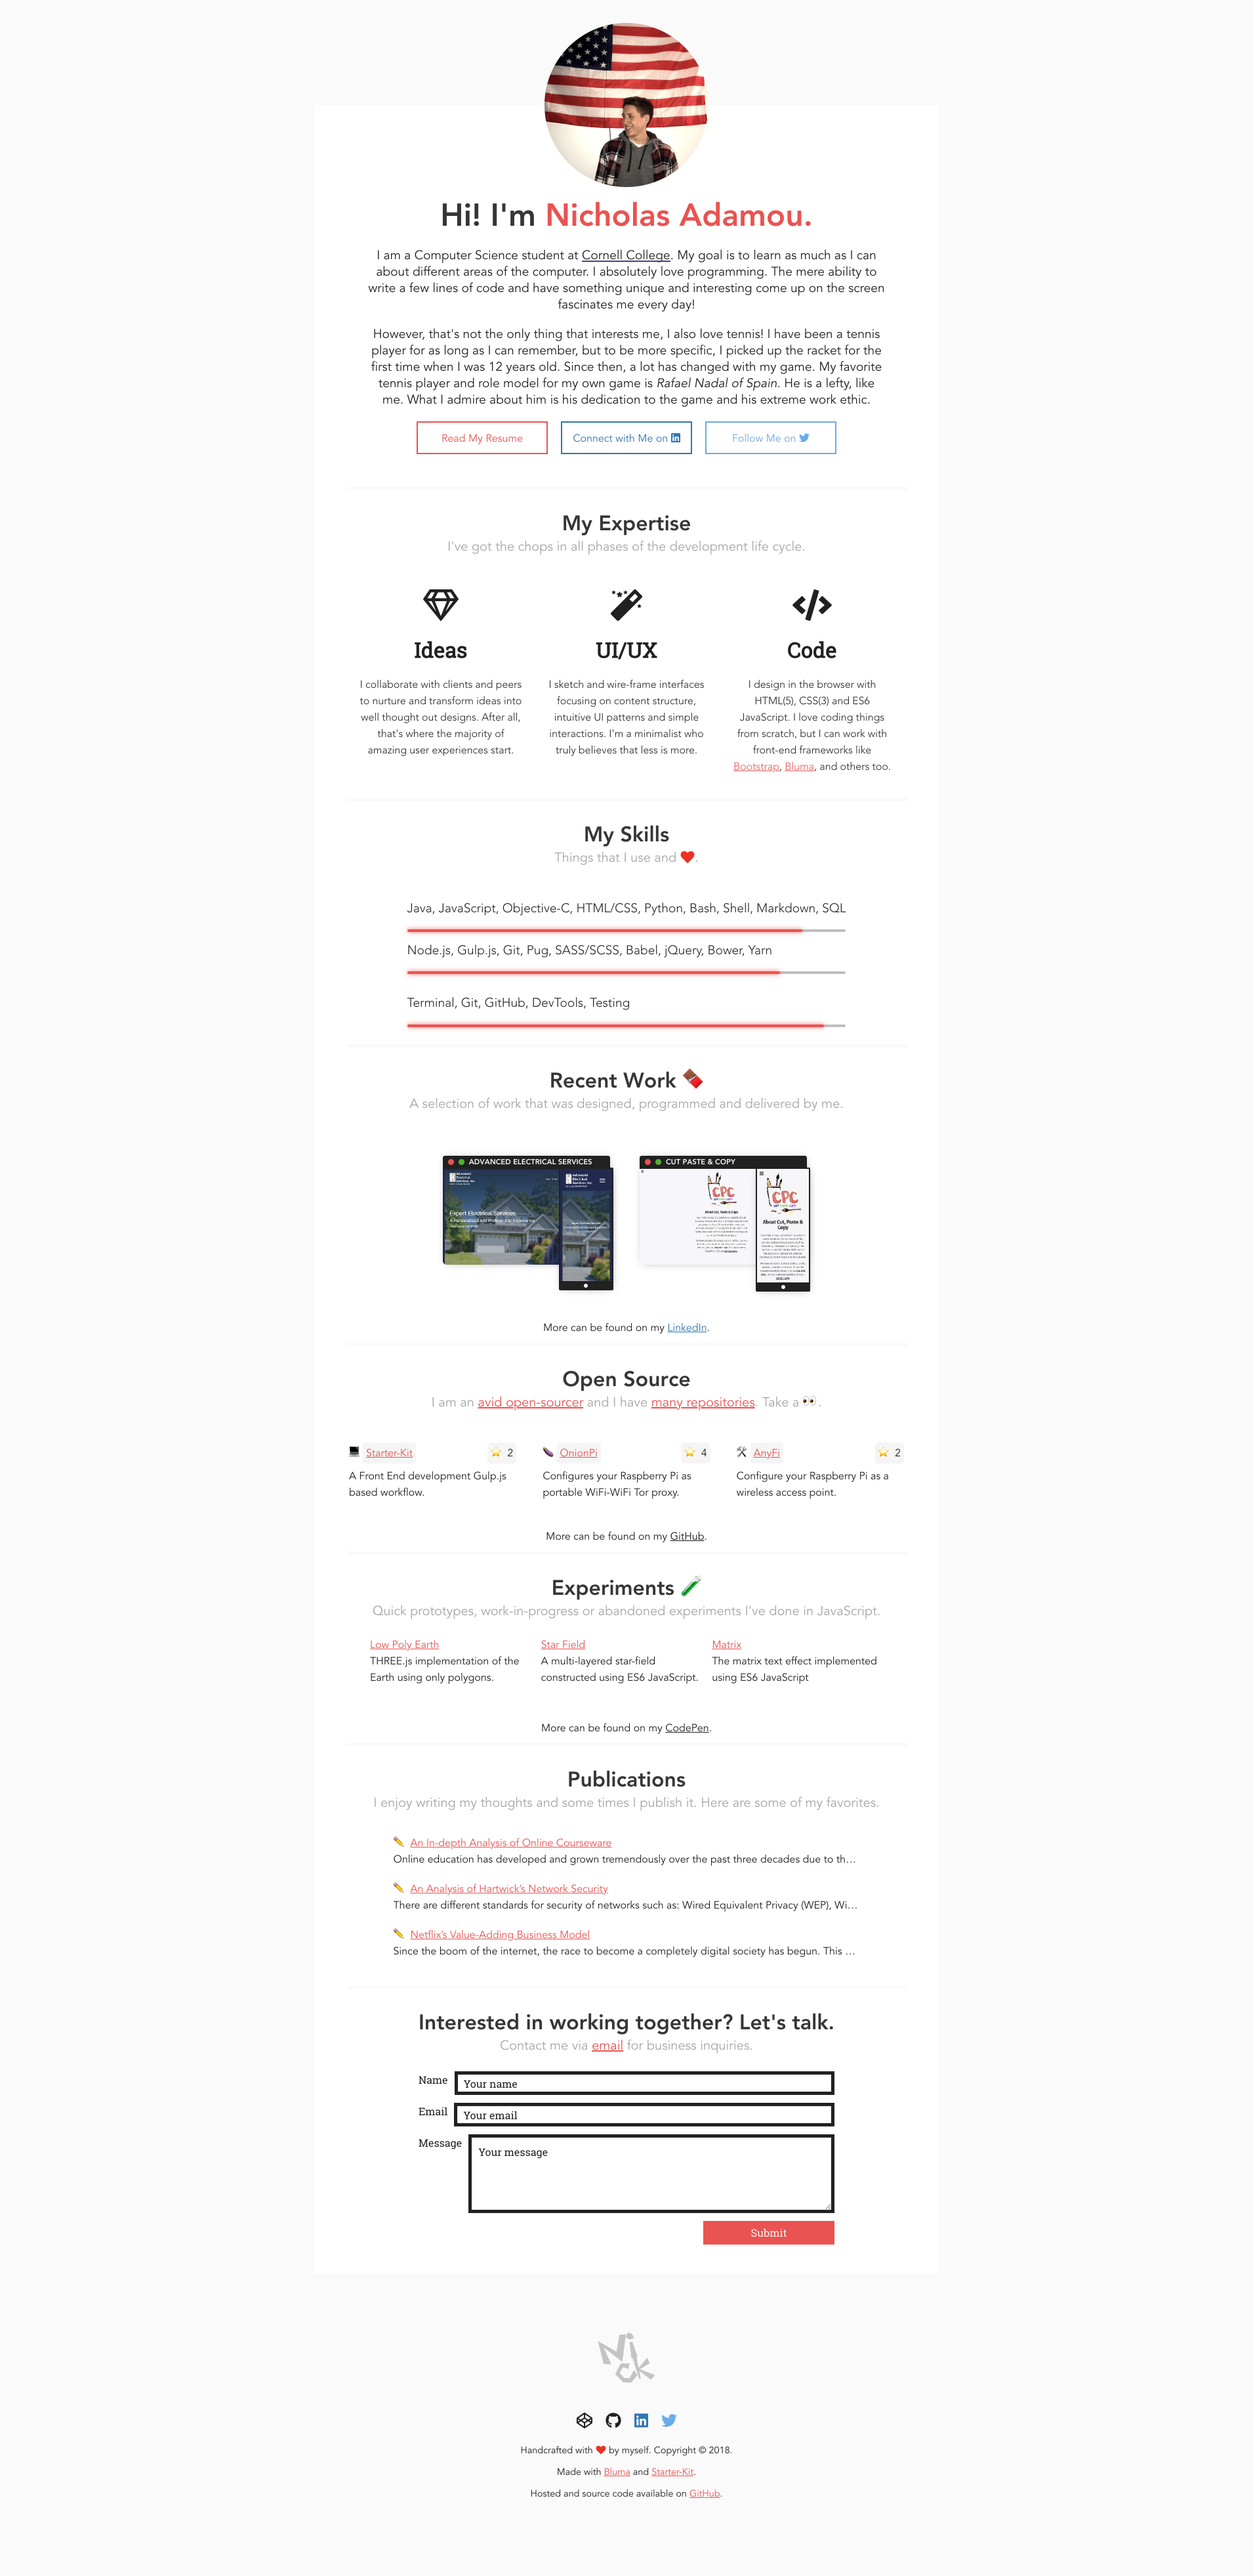
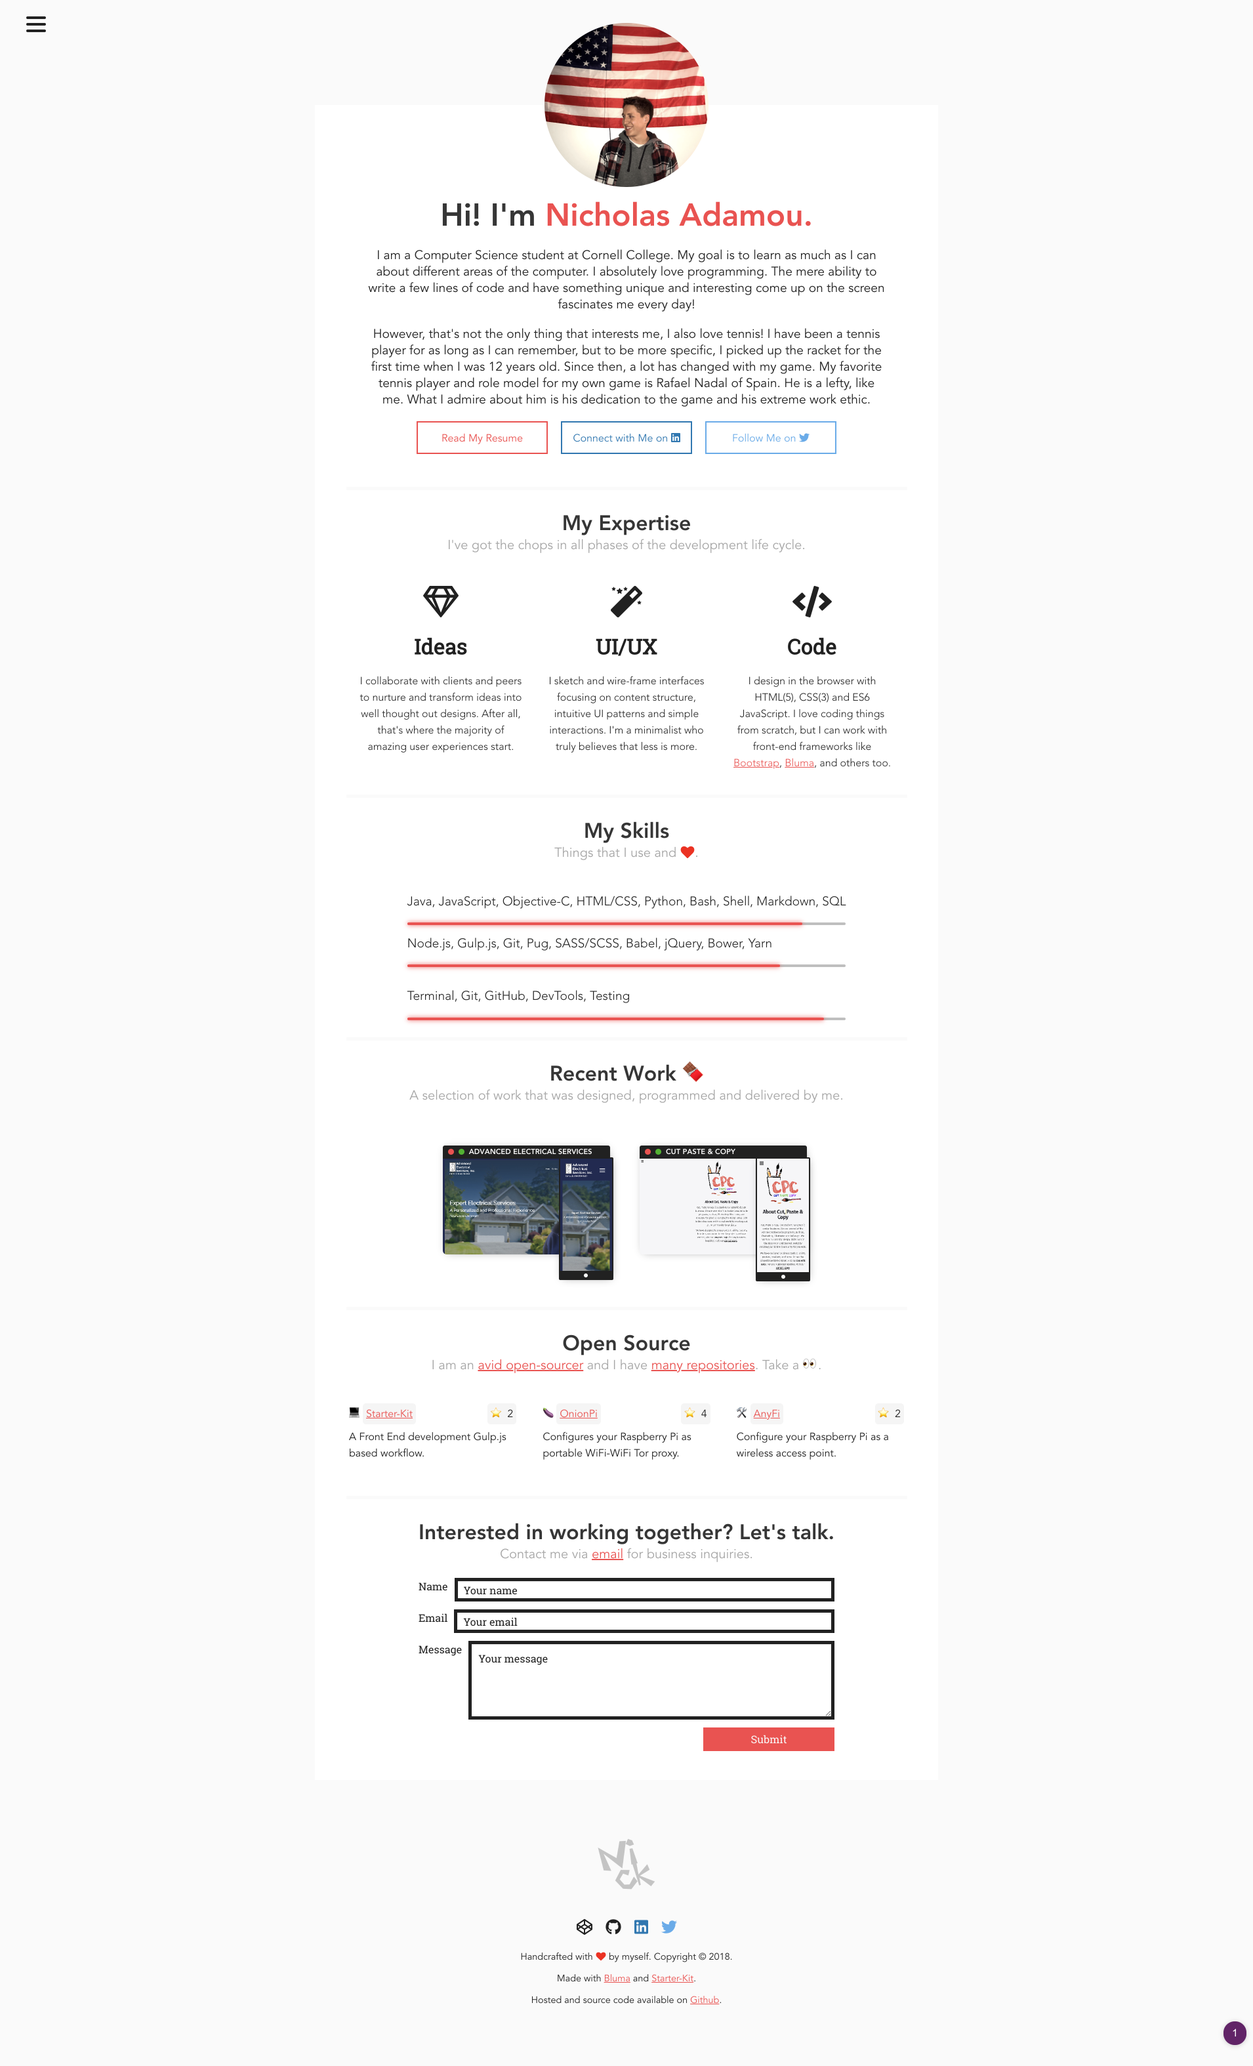
updated about me section

Changed region(s): [[0.278, 0.0, 0.7105, 0.8714], [0.4325, 0.9025, 0.556, 0.9648], [0.9576, 0.9648, 1.0, 0.9959]]

diff --git a/src/sass/sections/_about_me.scss b/src/sass/sections/_about_me.scss
@@ -46,7 +46,6 @@
 
 		@include until($iphone-7) {
 			margin: 0 auto;
-			margin-bottom: 20px;
 
 			padding: 10px 25px;
 		}
@@ -87,62 +86,87 @@
 					color: var(--color-cornell);
 				}
 			}
+
+			&.blackbird {
+				&:before {
+					background-color: var(--color-blackbird);
+				}
+
+				&:hover {
+					color: var(--color-blackbird);
+				}
+			}
+
+
+			&.mack-media-group {
+				&:before {
+					background-color: var(--color-mack-media-group);
+				}
+
+				&:hover {
+					color: var(--color-mack-media-group);
+				}
+			}
 		}
 	}
 
-	.btn {
-		display: inline-block;
+	.btn-wrapper {
+		margin-top: 1.3rem;
 
-		margin-right: 20px;
+		.btn {
+			display: inline-block;
 
-		width: 200px;
-		height: 50px;
+			margin-right: 20px;
 
-		border: 2px solid;
+			width: 200px;
+			height: 50px;
 
-		line-height: 3;
-		text-decoration: none;
+			border: 2px solid;
 
-		transition: all 150ms ease-in-out;
+			line-height: 3;
+			text-decoration: none;
 
-		&:last-child {
-			margin-right: 0;
+			transition: all 150ms ease-in-out;
+
+			&:last-child {
+				margin-right: 0;
+			}
+
+			@include until($iphone-7) {
+				width: 90%;
+
+				margin: 10px auto;
+			}
 		}
 
-		@include until($iphone-7) {
-			width: 90%;
+		#resume {
+			border-color: var(--color-red);
+			color: var(--color-red);
 
-			margin: 10px auto;
+			&:hover {
+				background-color: var(--color-red);
+				color: var(--color-white);
+			}
 		}
-	}
 
-	#resume {
-		border-color: var(--color-red);
-		color: var(--color-red);
+		#twitter {
+			border-color: var(--color-twitter);
+			color: var(--color-twitter);
 
-		&:hover {
-			background-color: var(--color-red);
-			color: var(--color-white);
+			&:hover {
+				background-color: var(--color-twitter);
+				color: var(--color-white);
+			}
 		}
-	}
 
-	#twitter {
-		border-color: var(--color-twitter);
-		color: var(--color-twitter);
+		#linkedin {
+			border-color: var(--color-linkedin);
+			color: var(--color-linkedin);
 
-		&:hover {
-			background-color: var(--color-twitter);
-			color: var(--color-white);
-		}
-	}
-
-	#linkedin {
-		border-color: var(--color-linkedin);
-		color: var(--color-linkedin);
-
-		&:hover {
-			background-color: var(--color-linkedin);
-			color: var(--color-white);
+			&:hover {
+				background-color: var(--color-linkedin);
+				color: var(--color-white);
+			}
 		}
 	}
 }

diff --git a/src/sass/base/_base.scss b/src/sass/base/_base.scss
@@ -47,6 +47,8 @@
 	--color-twitter: #{$twitter};
 	--color-linkedin: #{$linkedin};
 	--color-cornell: #{$cornell};
+	--color-blackbird: #{$blackbird};
+	--color-mack-media-group: #{$mack-media-group};
 }
 
 * {

diff --git a/src/sass/base/_variables.scss b/src/sass/base/_variables.scss
@@ -11,6 +11,8 @@ $codepen: #212121;
 $twitter: #55acee;
 $linkedin: #0077B5;
 $cornell: #583d78;
+$blackbird: #3c4156;
+$mack-media-group: #80bd01;
 //- Scrollbar
 $scrollbar: $white;
 $scrollbar-bg: $black;

diff --git a/src/sass/modules/_logo.scss b/src/sass/modules/_logo.scss
@@ -1,7 +1,7 @@
 .logo {
 	position: relative;
 	width: 100%;
-	height: 100px;
+	height: 80px;
 	background-size: contain;
 	background-position: center center;
 	background-repeat: no-repeat;
